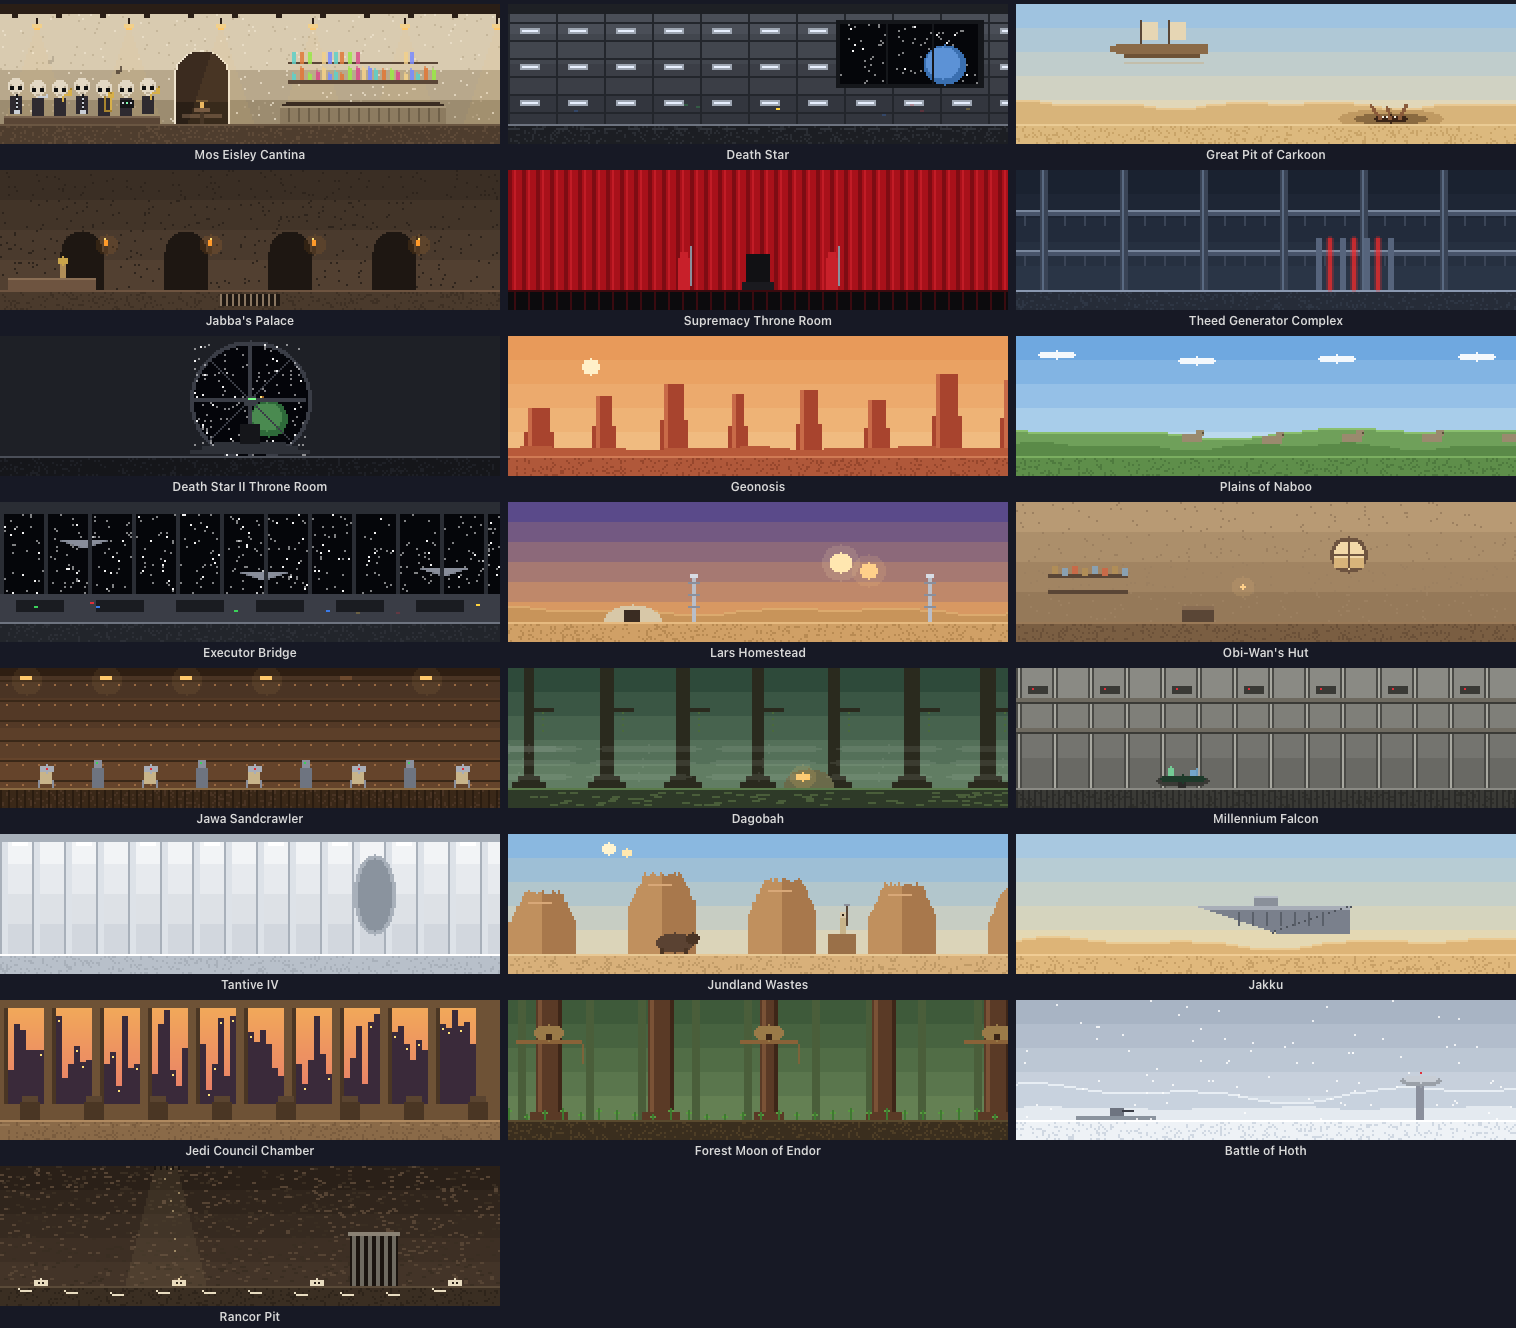
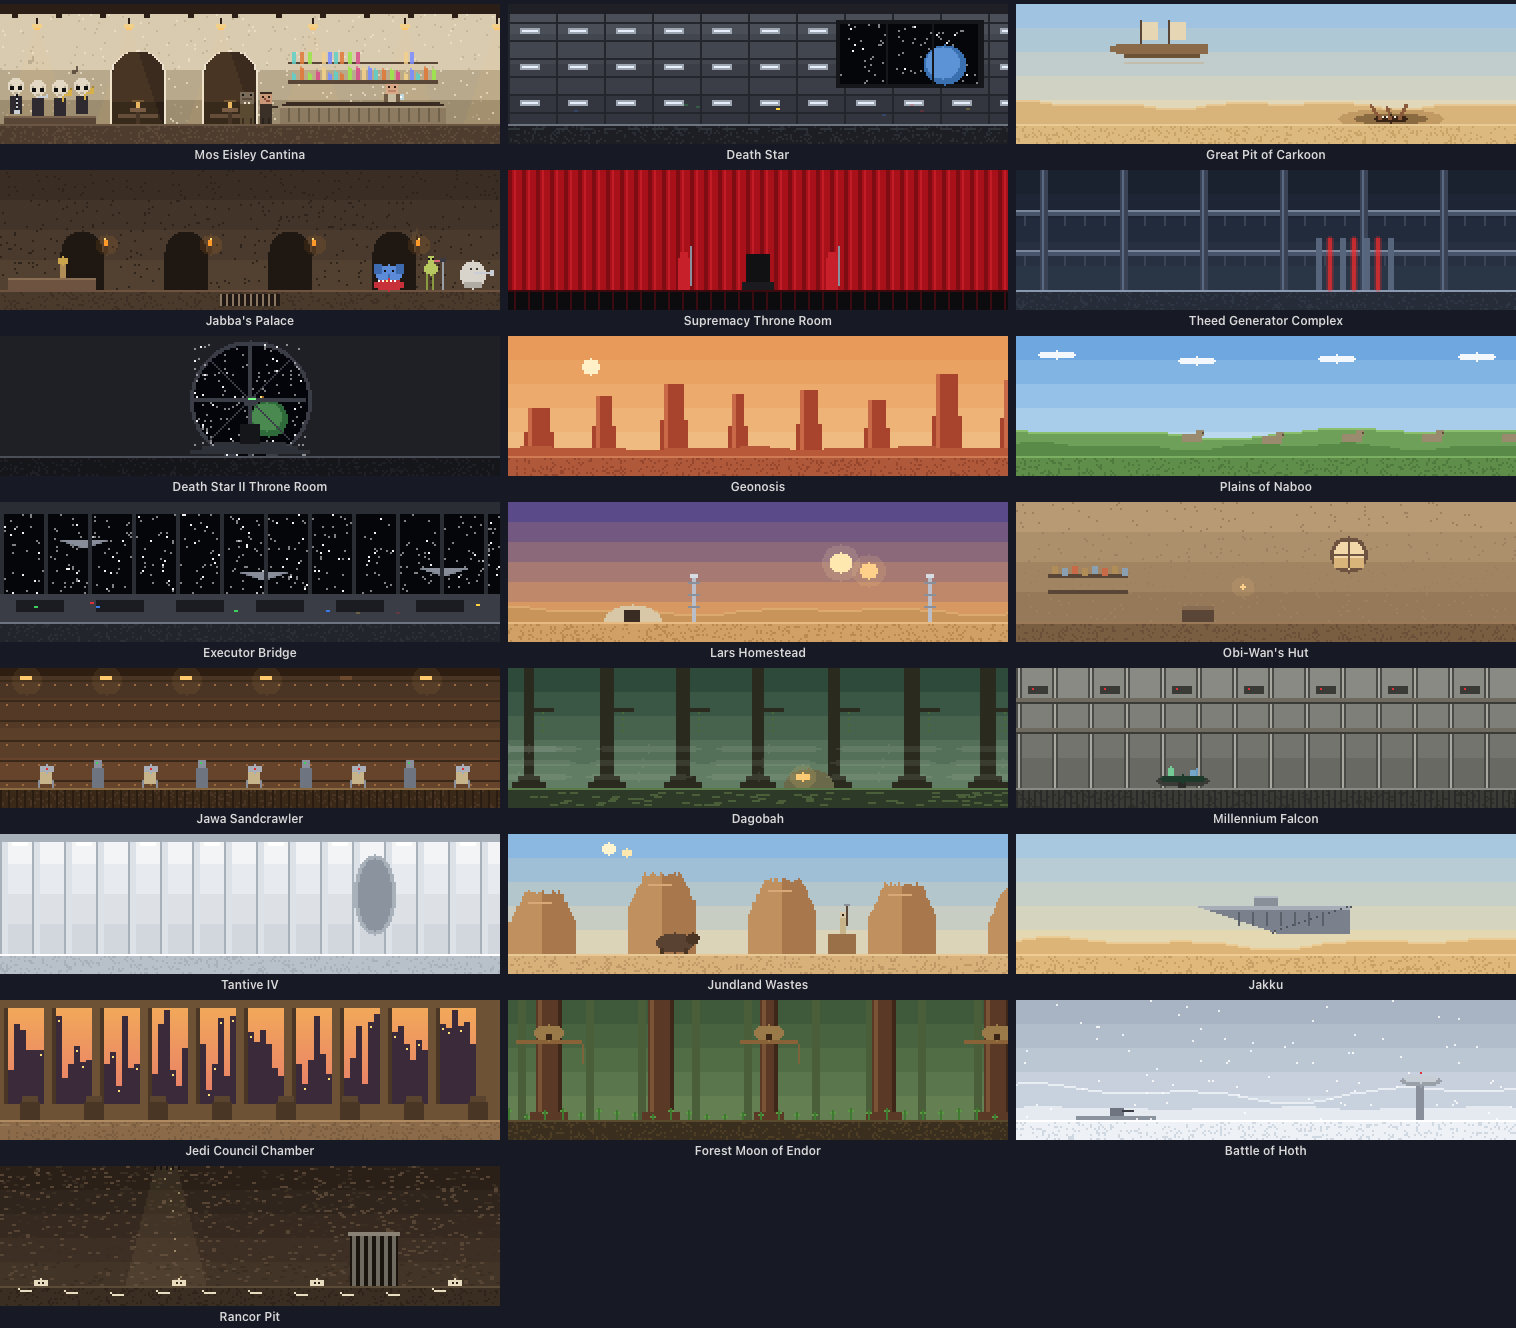
feat(cantina): four Modal Nodes, Max Rebo Band, bar crowd; chaos test
The cantina band is the four Bith seen on screen; the Max Rebo Band plays in Jabba's palace; Wuher tends bar while Dr. Evazan and Ponda Baba lean on it. Adds a hidden --chaos soak test that churns random sessions and agents and checks layout invariants.

Changed region(s): [[0.062, 0.0309, 0.186, 0.0926], [0.248, 0.1852, 0.341, 0.2161], [0.248, 0.0617, 0.279, 0.0926]]

diff --git a/Sources/App/Overlay.swift b/Sources/App/Overlay.swift
@@ -77,6 +77,15 @@ final class OverlayController: NSObject, NSMenuDelegate, NSApplicationDelegate {
     private var focusedPid: Int32?
     private var lastFocusCheck = 0.0
     private var lastShot = 0.0
+    // Chaos test (--chaos[=seconds]): random sessions/agents/moods, with layout invariants checked continuously.
+    private let chaosSeconds: Double? = CommandLine.arguments.first { $0.hasPrefix("--chaos") }
+        .map { arg in arg.split(separator: "=").count == 2 ? Double(arg.split(separator: "=")[1]) ?? 120 : 120 }
+    private var chaos: [SessionSnapshot] = []
+    private var chaosAgentSerial = 0
+    private var violations: [String: (count: Int, examples: [String])] = [:]
+    private var walkingSince: [String: Double] = [:]
+    private var missingSince: [String: Double] = [:]
+    private var lastCheck = 0.0
     private var hasLaidOut = false          // after the first layout, newcomers walk in instead of appearing
     private var hoveredKey: String?
     private var busySince: [Int32: Double] = [:]
@@ -222,7 +231,10 @@ final class OverlayController: NSObject, NSMenuDelegate, NSApplicationDelegate {
 
     private func refreshStatus() {
         let now = Date().timeIntervalSince1970
-        if let playground {
+        if chaosSeconds != nil {
+            offlineReason = nil
+            sessions = chaosStep(now)
+        } else if let playground {
             offlineReason = nil
             sessions = playgroundSessions(playground)
         } else if demo {
@@ -621,6 +633,7 @@ final class OverlayController: NSObject, NSMenuDelegate, NSApplicationDelegate {
 
         items = buildItems(now: now)
         if let shotPath, now - lastShot > 5 { lastShot = now; writeShot(to: shotPath) }
+        if chaosSeconds != nil, now - lastCheck > 0.25 { lastCheck = now; checkInvariants(now) }
 
         if windowMode {
             clawdWindow?.sceneView.needsDisplay = true
@@ -1048,6 +1061,95 @@ final class OverlayController: NSObject, NSMenuDelegate, NSApplicationDelegate {
                 self.lastHookCheck = 0
             }
         }
+    }
+
+    // MARK: Chaos test
+
+    /// One random step: Claudes and agents come and go and change mood, much faster than real use.
+    private func chaosStep(_ now: Double) -> [SessionSnapshot] {
+        if let limit = chaosSeconds, now - start > limit { finishChaos() }
+        func roll(_ p: Double) -> Bool { Double.random(in: 0..<1) < p }
+        let moods: [Mood] = [.working, .working, .thinking, .waiting, .idle]
+        if chaos.isEmpty || (chaos.count < 7 && roll(0.15)) {
+            let used = Set(chaos.map(\.leader))
+            if let l = (0..<StatusStore.leaderCount).filter({ !used.contains($0) }).randomElement() {
+                chaos.append(SessionSnapshot(id: "chaos-\(l)-\(Int(now * 1000))", leader: l, project: "project-\(l)",
+                                             mood: moods.randomElement()!, agents: []))
+            }
+        }
+        if chaos.count > 1 && roll(0.08) { chaos.remove(at: Int.random(in: 0..<chaos.count)) }
+        if roll(0.4), !chaos.isEmpty { chaos[Int.random(in: 0..<chaos.count)].mood = moods.randomElement()! }
+        let agentCount = chaos.reduce(0) { $0 + $1.agents.count }
+        if agentCount < 12 && roll(0.25), !chaos.isEmpty {
+            chaosAgentSerial += 1
+            let i = Int.random(in: 0..<chaos.count)
+            chaos[i].agents.append(AgentRecord(id: "chaos-a\(chaosAgentSerial)", session: chaos[i].id, type: "chaos",
+                                               character: Int.random(in: 0..<StatusStore.companionCount),
+                                               started: now, lastSeen: now,
+                                               task: Self.sampleTasks.randomElement()))
+        }
+        if roll(0.2), let i = chaos.indices.filter({ !chaos[$0].agents.isEmpty }).randomElement() {
+            chaos[i].agents.remove(at: Int.random(in: 0..<chaos[i].agents.count))
+        }
+        return chaos
+    }
+
+    private func violation(_ kind: String, _ example: String) {
+        var v = violations[kind] ?? (0, [])
+        v.count += 1
+        if v.examples.count < 3 { v.examples.append(example) }
+        violations[kind] = v
+    }
+
+    /// The rules the layout must keep, whatever happens.
+    private func checkInvariants(_ now: Double) {
+        let st = stage
+        let onStage = actors.filter { $0.leaving == nil && now >= $0.born }
+        for a in onStage {
+            // Off screen: once it has had time to walk in, every character's body stays on the stage.
+            if now - a.born > 4, a.walkDir == 0, a.x < st.minX - 1 || a.x > st.maxX + 1 {
+                violation("character off screen", "\(a.key) at x=\(Int(a.x)) (stage \(Int(st.minX))…\(Int(st.maxX)))")
+            }
+            // Stuck walking: nobody walks for more than 8 s without arriving.
+            if a.walkDir != 0 {
+                let since = walkingSince[a.key] ?? now
+                walkingSince[a.key] = since
+                if now - since > 8 { violation("stuck walking", "\(a.key) walking \(Int(now - since))s toward \(Int(a.targetX)) from \(Int(a.x))") }
+            } else {
+                walkingSince[a.key] = nil
+            }
+        }
+        // Missing: every session and agent shows up within 3 s.
+        var wanted: [String] = []
+        for s in sessions { wanted.append("L:" + s.id); wanted += s.agents.map { "A:" + $0.id } }
+        let present = Set(actors.filter { $0.leaving == nil }.map(\.key))
+        for key in wanted where !present.contains(key) {
+            let since = missingSince[key] ?? now
+            missingSince[key] = since
+            if now - since > 3 { violation("missing character", key) }
+        }
+        missingSince = missingSince.filter { !present.contains($0.key) && wanted.contains($0.key) }
+        if present.count > wanted.count { violation("extra characters", "\(present.count) on stage for \(wanted.count) wanted") }
+        // Labels: on screen, and never on top of each other.
+        let boxes = items.filter { $0.boxed && $0.alpha > 0.5 }.map(\.rect)
+        for r in boxes where r.minX < st.minX - 1 || r.maxX > st.maxX + 1 {
+            violation("label off screen", "x \(Int(r.minX))…\(Int(r.maxX))")
+        }
+        for (i, a) in boxes.enumerated() {
+            for b in boxes.dropFirst(i + 1) where a.insetBy(dx: 1, dy: 1).intersects(b.insetBy(dx: 1, dy: 1)) {
+                violation("labels overlap", "\(Int(a.minX)),\(Int(a.minY)) and \(Int(b.minX)),\(Int(b.minY))")
+            }
+        }
+    }
+
+    private func finishChaos() {
+        var report = "Chaos test: \(Int(chaosSeconds ?? 0)) s, \(chaosAgentSerial) agents spawned, \(windowMode ? "window" : "desktop") mode\n"
+        if violations.isEmpty { report += "✓ no violations\n" }
+        for (kind, v) in violations.sorted(by: { $0.value.count > $1.value.count }) {
+            report += "✗ \(kind): \(v.count)×  e.g. \(v.examples.joined(separator: " | "))\n"
+        }
+        FileHandle.standardOutput.write(report.data(using: .utf8)!)
+        exit(violations.isEmpty ? 0 : 1)
     }
 
     // MARK: Menu bar

diff --git a/Sources/App/Cantina.swift b/Sources/App/Cantina.swift
@@ -120,18 +120,17 @@ enum Cantina {
         c.rect(x + r - 3, bottom - 12, 6, 1, glow.alpha(0.25))
     }
 
-    /// Width of the band stage: all seven Modal Nodes.
-    static let bandWidth = 82
+    /// Width of the band stage: the four Modal Nodes seen on screen.
+    static let bandWidth = 50
 
-    /// Figrin D'an and the Modal Nodes — all seven Bith, each with their instrument, bobbing to the beat:
-    /// Figrin D'an and Lirin Car'n (kloo horns), Doikk Na'ts (Fizzz), Ickabel G'ont and Tedn Dahai (fanfars),
-    /// Nalan Cheel (bandfill) and Tech Mo'r (ommni box).
+    /// Figrin D'an and the Modal Nodes as seen in the cantina: four Bith bobbing to the beat — Figrin D'an
+    /// (kloo horn), Doikk Na'ts (Fizzz), Ickabel G'ont and Tedn Dahai (fanfars).
     static func drawBand(_ c: PixelCanvas, floorRows: Int, t: Double) {
         let base = c.h - floorRows - 4
         let skin = C(0xE3D8C4), skinShade = C(0xBDB09A), robe = C(0x2E2A30)
         let black = C(0x161618), silver = C(0xC9CED6), brass = C(0xD8B048), brassDark = C(0xA8842E)
         enum Instrument { case kloo, fizzz, fanfar, bandfill, ommni }
-        let band: [Instrument] = [.kloo, .fizzz, .fanfar, .kloo, .bandfill, .ommni, .fanfar]
+        let band: [Instrument] = [.kloo, .fizzz, .fanfar, .fanfar]
         for (i, instrument) in band.enumerated() {
             let x = 4 + i * 11
             let beat = Int((t * 2.2 + Double(i) * 0.29).truncatingRemainder(dividingBy: 1) * 2)   // on/off the beat
@@ -171,7 +170,50 @@ enum Cantina {
         // music notes drifting up
         for n in 0..<2 {
             let f = (t / 1.6 + Double(n) * 0.5).truncatingRemainder(dividingBy: 1)
-            c.pattern(24 + n * 34, base - 22 - Int(f * 10), ["..N", "..N", "NNN", "NN."], ["N": C(0x3A2C22, 1 - f)])
+            c.pattern(14 + n * 22, base - 22 - Int(f * 10), ["..N", "..N", "NNN", "NN."], ["N": C(0x3A2C22, 1 - f)])
         }
+    }
+
+    /// The bar crowd: Wuher the bartender polishing a glass behind the counter, and Dr. Cornelius Evazan
+    /// with Ponda Baba leaning on the end of the bar, looking for trouble.
+    static func drawBarCrowd(_ c: PixelCanvas, floorRows: Int, t: Double) {
+        let w = c.w, wallBottom = c.h - floorRows
+        let barStart = Int(Double(w) * 0.56), barEnd = min(w - 4, barStart + max(60, w / 3))
+        guard barEnd - barStart > 30 else { return }
+        let counterTop = wallBottom - 11
+        let skin = C(0xD8A888), skinShade = C(0xB88868)
+
+        // Wuher: balding, stubbly, apron, behind the counter (only head and shoulders show)
+        let wx = barStart + (barEnd - barStart) * 2 / 3
+        c.rect(wx - 3, counterTop - 4, 8, 4, C(0x6E5A44))                      // shirt
+        c.rect(wx - 1, counterTop - 4, 4, 4, C(0xC8BCA0))                      // apron bib
+        c.rect(wx - 2, counterTop - 10, 6, 6, skin)                            // head
+        c.rect(wx - 2, counterTop - 10, 6, 1, C(0x5A4A3A))                     // thin hair
+        c.px(wx - 1, counterTop - 8, C(0x2A1A10)); c.px(wx + 2, counterTop - 8, C(0x2A1A10))
+        c.rect(wx - 1, counterTop - 6, 4, 1, skinShade)                        // stubble
+        // polishing a glass, rag going round and round
+        let k = Int(t * 6) % 4
+        c.rect(wx + 5, counterTop - 4 - (k == 1 || k == 2 ? 1 : 0), 2, 3, C(0xBFE0F0, 0.8))
+        c.px(wx + 4 + (k % 2), counterTop - 3, white)
+
+        // Dr. Cornelius Evazan: scarred face, dark coat, at the near end of the bar
+        let ex = barStart - 10
+        c.rect(ex, wallBottom - 10, 6, 10, C(0x3A3028))                        // coat
+        c.rect(ex + 1, wallBottom - 3, 1, 3, C(0x2A221C)); c.rect(ex + 4, wallBottom - 3, 1, 3, C(0x2A221C))
+        c.rect(ex, wallBottom - 16, 6, 6, C(0xC89878))                         // face
+        c.rect(ex, wallBottom - 16, 6, 1, C(0x3A2A1E))                         // hair
+        c.px(ex + 1, wallBottom - 14, C(0x2A1A10)); c.px(ex + 4, wallBottom - 14, C(0x2A1A10))
+        c.px(ex + 2, wallBottom - 13, C(0x8A4A3A)); c.px(ex + 3, wallBottom - 12, C(0x8A4A3A))   // the scars
+        c.px(ex + 4, wallBottom - 12, C(0x8A4A3A))
+        c.rect(ex + 6, wallBottom - 9, 3, 1, C(0x3A3028))                      // elbow on the bar
+
+        // Ponda Baba: Aqualish — walrus face with tusks, brown coat, just behind him
+        let px = barStart - 20
+        c.rect(px, wallBottom - 10, 7, 10, C(0x5A4A32))                        // coat
+        c.rect(px + 1, wallBottom - 3, 1, 3, C(0x3A2E20)); c.rect(px + 5, wallBottom - 3, 1, 3, C(0x3A2E20))
+        c.rect(px, wallBottom - 16, 7, 6, C(0x7A6A58))                         // big jowly face
+        c.px(px + 1, wallBottom - 15, C(0x101010)); c.px(px + 5, wallBottom - 15, C(0x101010))
+        c.px(px + 2, wallBottom - 11, C(0xF0E6CC)); c.px(px + 4, wallBottom - 11, C(0xF0E6CC))  // tusks
+        c.rect(px + 1, wallBottom - 13, 5, 1, C(0x5A4A3A))
     }
 }

diff --git a/Sources/App/Locations.swift b/Sources/App/Locations.swift
@@ -129,10 +129,10 @@ enum Location: String, CaseIterable {
     func drawAnimated(_ c: PixelCanvas, floorRows f: Int, t: Double) {
         let g = c.h - f
         switch self {
-        case .cantina: Cantina.drawBand(c, floorRows: f, t: t)
+        case .cantina: Cantina.drawBand(c, floorRows: f, t: t); Cantina.drawBarCrowd(c, floorRows: f, t: t)
         case .deathStar, .executor: Scenes.blinkLights(c, g, t: t, seed: self == .deathStar ? 1 : 2)
         case .sarlaccPit: Scenes.sarlaccTentacles(c, g, t: t)
-        case .jabbasPalace: Scenes.torches(c, g, t: t)
+        case .jabbasPalace: Scenes.torches(c, g, t: t); Scenes.maxReboBand(c, g, t: t)
         case .theed: Scenes.laserGates(c, g, t: t)
         case .emperorThrone: Scenes.spaceBattle(c, g, t: t)
         case .dagobah: Scenes.swampFog(c, g, t: t)
@@ -710,5 +710,50 @@ enum Scenes {
             let y = Int((noise(i * 7) * Double(g) + t * (3 + noise(i * 7 + 1) * 3)).truncatingRemainder(dividingBy: Double(g)))
             c.px(x0 - 6 + Int(noise(i * 7 + 2) * 12) + y / 8, y, C(0xF2D8A0, 0.5))
         }
+    }
+
+    /// The Max Rebo Band in Jabba's palace: Max Rebo at his red organ, Sy Snootles singing into the mic,
+    /// Droopy McCool on his long horn — all bobbing to the beat on the right side of the throne room.
+    static func maxReboBand(_ c: PixelCanvas, _ g: Int, t: Double) {
+        let x0 = c.w - 64
+        guard x0 > 60 else { return }
+        func bob(_ k: Double) -> Int { (t * 2.2 + k).truncatingRemainder(dividingBy: 1) < 0.5 ? 0 : -1 }
+
+        // Max Rebo: small blue Ortolan with floppy ears and a trunk, at the red ball organ
+        c.oy = bob(0)
+        let blue = C(0x5A8AD8), blueDark = C(0x3E6AB0)
+        c.ellipse(x0 + 8, g - 7, 6, 5, blue)
+        c.rect(x0 + 1, g - 12, 4, 5, blueDark); c.rect(x0 + 12, g - 12, 4, 5, blueDark)       // ears
+        c.px(x0 + 6, g - 9, C(0x101010)); c.px(x0 + 10, g - 9, C(0x101010))                  // eyes
+        c.rect(x0 + 8, g - 7, 1, 4, blueDark); c.px(x0 + 9, g - 3, blueDark)                  // trunk
+        c.oy = 0
+        c.ellipse(x0 + 8, g - 3, 7, 3, C(0xC8303A))                                           // the organ
+        for k in 0..<5 { c.px(x0 + 3 + k * 2, g - 5, (Int(t * 5) + k) % 4 == 0 ? C(0xFFE27A) : white) }
+
+        // Sy Snootles: thin yellow-green singer with a long-lipped snout, at a microphone stand
+        let sx = x0 + 26
+        c.oy = bob(0.33)
+        let sy = C(0xB8C860), syDark = C(0x8A9A40)
+        c.rect(sx + 1, g - 9, 1, 9, syDark); c.rect(sx + 4, g - 9, 1, 9, syDark)            // spindly legs
+        c.ellipse(sx + 3, g - 11, 3, 3, sy)                                                    // body
+        c.rect(sx + 2, g - 17, 3, 4, sy)                                                       // head
+        c.px(sx + 2, g - 16, C(0x101010)); c.px(sx + 4, g - 16, C(0x101010))
+        c.rect(sx + 5, g - 15, 4, 1, C(0xD86A7A))                                              // the long lips
+        c.oy = 0
+        c.rect(sx + 9, g - 15, 1, 15, C(0x9AA0A8)); c.rect(sx + 8, g - 16, 3, 2, C(0x3A3A42)) // mic stand
+
+        // Droopy McCool: chubby pale Kitonak with his long horn
+        let dx = x0 + 44
+        c.oy = bob(0.66)
+        let pale = C(0xD8D4CC), paleDark = C(0xB0ACA4)
+        c.ellipse(dx + 6, g - 7, 6, 7, pale)
+        c.rect(dx + 2, g - 3, 9, 3, paleDark)
+        c.px(dx + 5, g - 10, C(0x3A3A3A)); c.px(dx + 8, g - 10, C(0x3A3A3A))                 // tiny eyes
+        c.rect(dx + 7, g - 8, 9, 1, C(0xC9CED6)); c.rect(dx + 15, g - 9, 2, 3, C(0xC9CED6)) // the horn
+        c.oy = 0
+
+        // notes
+        let f = (t / 1.4).truncatingRemainder(dividingBy: 1)
+        c.pattern(x0 + 20, g - 24 - Int(f * 8), ["..N", "..N", "NNN", "NN."], ["N": C(0xFFC86A, 1 - f)])
     }
 }

diff --git a/CHANGELOG.md b/CHANGELOG.md
@@ -3,10 +3,19 @@
 ## 2.16.0 — 2026-10-10
 
 ### Added
-- The full cantina band: **Figrin D'an and the Modal Nodes**, all seven Bith. Figrin D'an and Lirin Car'n play kloo horns (black, silver keys, flared bells), Doikk Na'ts the Fizzz, Ickabel G'ont and Tedn Dahai fanfars, Nalan Cheel the tall curved bandfill, and Tech Mo'r the ommni box with blinking keys. Each bobs on their own beat. The stage is widened to 82 px and the booth alcoves move over.
+- The cantina band as seen in the film: **Figrin D'an and the Modal Nodes**, four Bith with their instruments. Figrin D'an plays a kloo horn (black, silver keys, flared bell), Doikk Na'ts the Fizzz, and Ickabel G'ont and Tedn Dahai fanfars. Each bobs on their own beat.
+- **The Max Rebo Band** in Jabba's palace: Max Rebo (blue Ortolan with floppy ears and a trunk) at his red organ with blinking keys, Sy Snootles (thin yellow-green singer with the long lips) at a microphone stand, and Droopy McCool (chubby pale Kitonak) on his long horn.
+- **The bar crowd** in the cantina: Wuher the bartender behind the counter polishing a glass, and Dr. Cornelius Evazan (scarred face, dark coat) with Ponda Baba (Aqualish, tusks) leaning on the end of the bar.
+- **Chaos test** (`--chaos[=seconds]`, a developer tool, hidden from users). Every half second it randomly adds and removes Claudes (up to 7) and agents (up to 12) and flips their moods, while checking that:
+  - no character is off screen after walking in;
+  - nobody walks for more than 8 s;
+  - every session and agent appears within 3 s;
+  - there are no extra characters;
+  - labels stay on screen and never overlap.
+  It prints a report and exits non-zero on violations. First runs: 90 s on the desktop (36 agents) and 90 s in window mode (43 agents), no violations.
 
 ### Changed
-- README: describes the full band, hover cards, walk-ins, sitting idle, NOT REPORTING and the OFFLINE banner. `docs/locations.png` and `docs/window-cantina.png` are regenerated to show the band.
+- README: describes both bands, the bar crowd, hover cards, walk-ins, sitting idle, NOT REPORTING and the OFFLINE banner. `docs/locations.png` and `docs/window-cantina.png` are regenerated.
 
 ## 2.15.3 — 2026-10-10
 

diff --git a/README.md b/README.md
@@ -80,7 +80,7 @@ The scene is set **where the first Claude belongs** — the Death Star for Vader
   <img src="docs/window-hoth.png" alt="Window mode on Hoth" width="760">
 </p>
 
-22 hand-built locations, each with its own little animation — Figrin D'an and the Modal Nodes play in the cantina (all seven of them, with their kloo horns, fanfars, bandfill and ommni box), the sarlacc's tentacles wave, Theed's laser gates pulse, snow falls on Hoth, fog drifts across Dagobah:
+22 hand-built locations, each with its own little animation — Figrin D'an and the Modal Nodes play in the cantina while Wuher polishes glasses and Dr. Evazan looks for trouble at the bar, the Max Rebo Band plays for Jabba, the sarlacc's tentacles wave, Theed's laser gates pulse, snow falls on Hoth, fog drifts across Dagobah:
 
 <p align="center">
   <img src="docs/locations.png" alt="All 22 locations" width="760">
